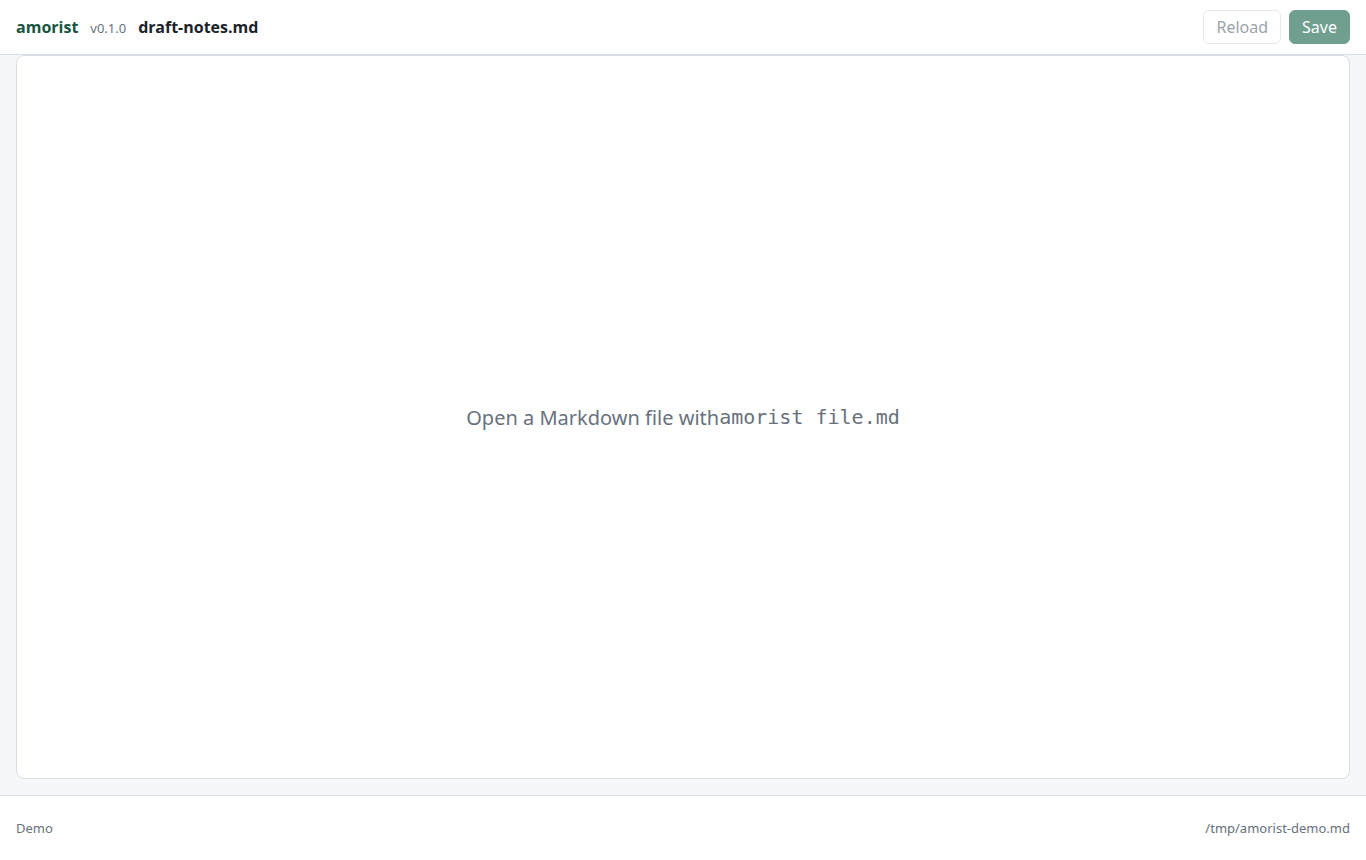
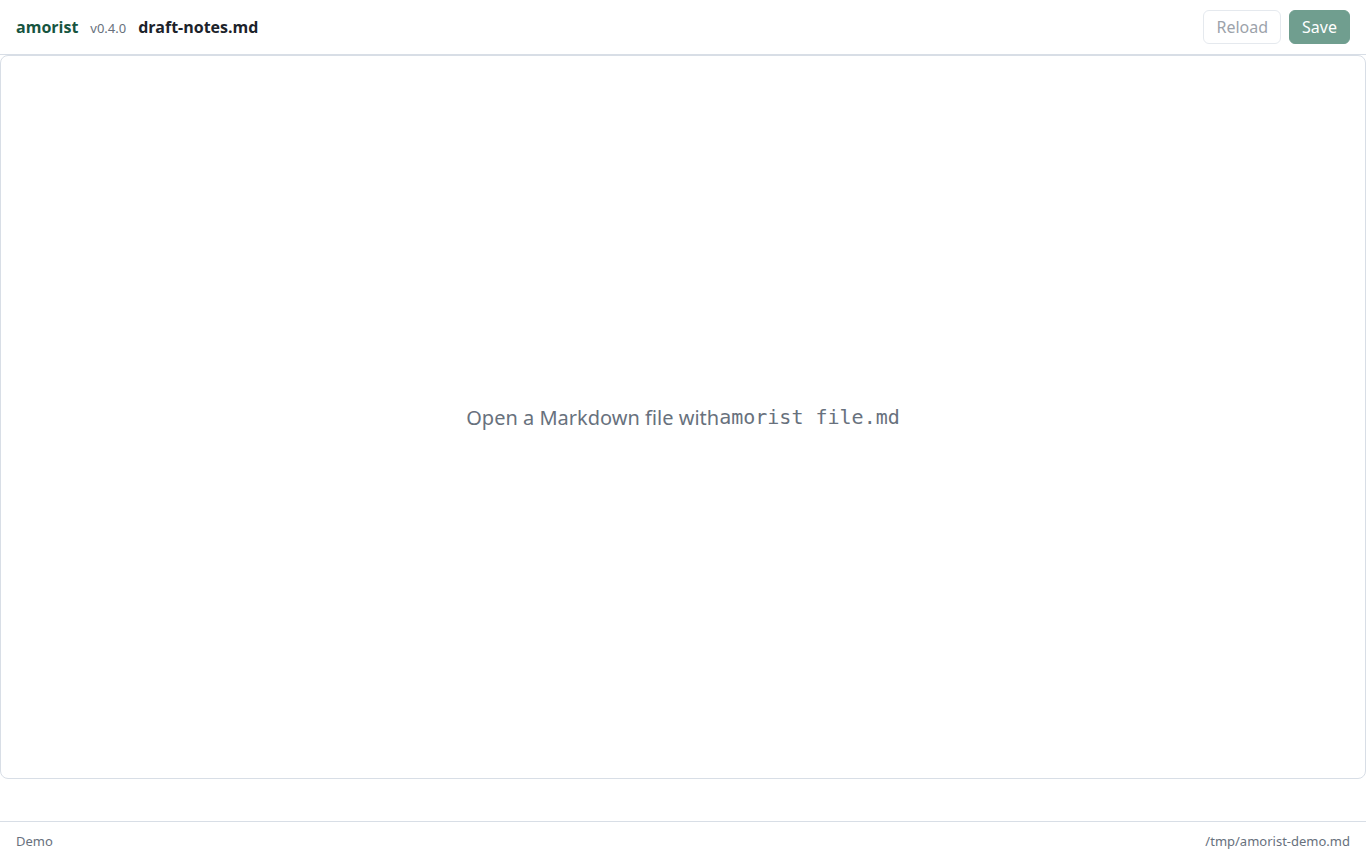
Add source mode and find bar screenshots
Extend capture-screenshots.sh with a find-bar capture mode and add
screenshot demo hook in app.js for the find bar with pre-filled query.

Changed region(s): [[0.8917, 0.9372, 1.0, 0.9977], [0.0, 0.9372, 0.0307, 0.9977], [0.9839, 0.8767, 1.0, 0.907]]

diff --git a/web/app.js b/web/app.js
@@ -318,6 +318,11 @@
     if (sourceMode) {
       state.editor.showSourceMode();
     }
+    if (screenshotMode === "find") {
+      state.editor.openFindBar();
+      state.editor.findInput.value = "markdown";
+      state.editor.performFind();
+    }
     if (screenshotMode === "empty") {
       elements.editor.innerHTML = '<section class="empty-state">Open a Markdown file with <code>amorist file.md</code></section>';
     }